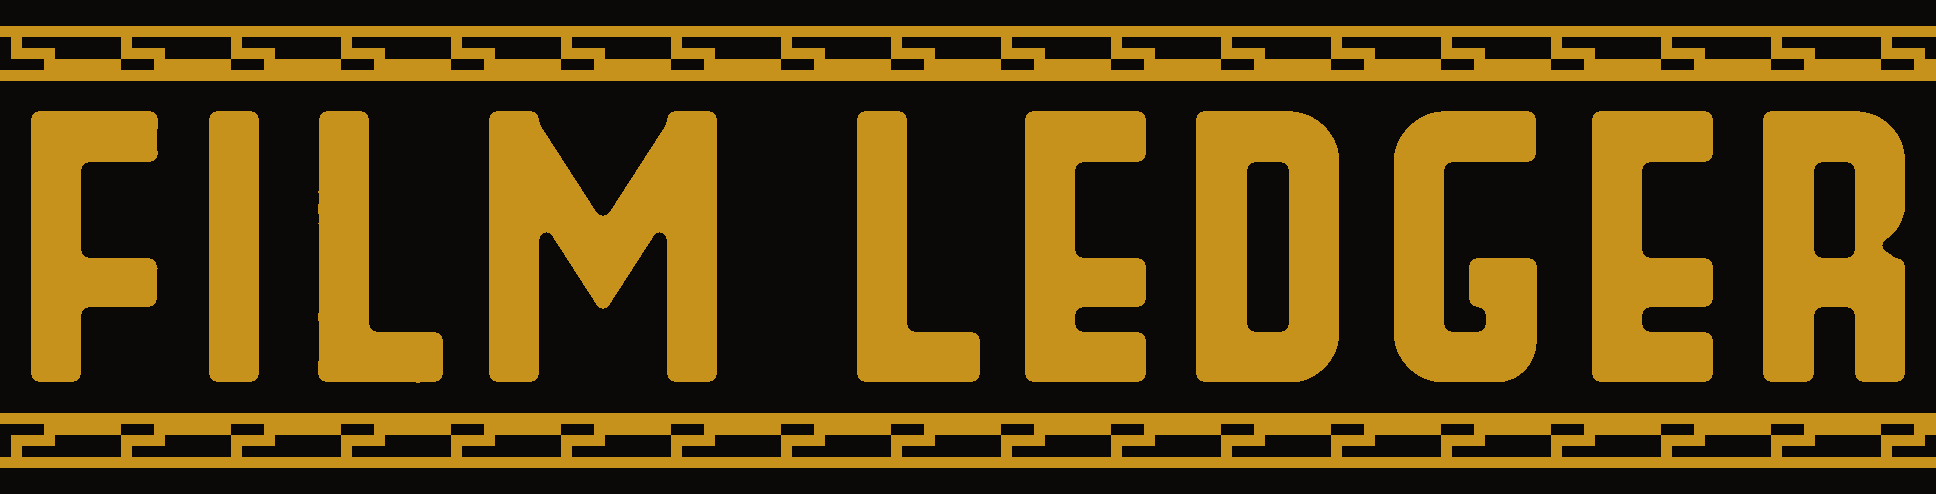
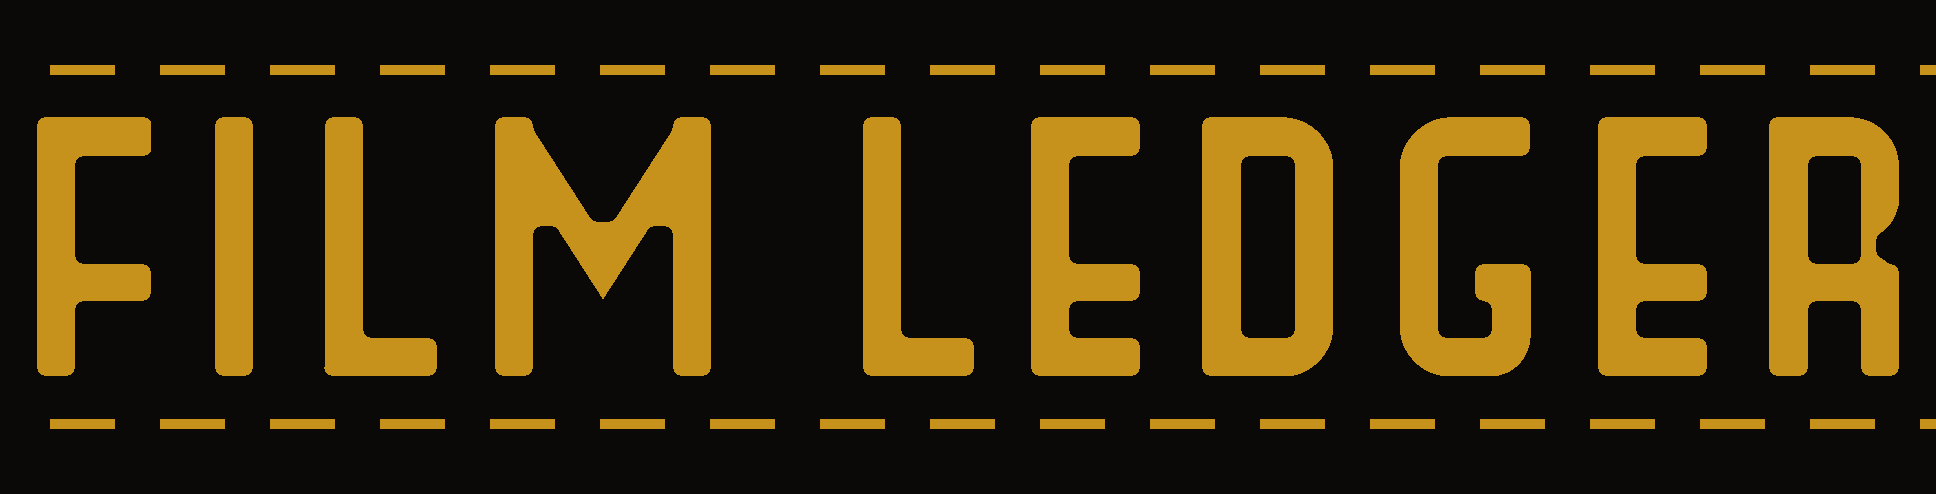
v5.16: thinner header, Stats last, in-app Rate
Header letter strokes are thinner. Stats sits at the end of the tab row.
Rate no longer uses the browser prompt (blocked on iPhone); it opens a number input.

diff --git a/app.js b/app.js
@@ -1384,9 +1384,39 @@ function showToast(message) {
 function editRating(id) {
   const m = movies.find(x => x.id === id);
   if (!m) return;
-  const input = prompt(`Rate "${m.title}" (0–100):`, m.rating || '');
-  if (input === null) return;
-  const num = parseInt(input);
+  document.querySelectorAll('.sheet').forEach(el => el.remove());
+  const modal = document.createElement('div');
+  modal.className = 'sheet';
+  modal.style.cssText = 'position:fixed; inset:0; background:rgba(0,0,0,0.85); z-index:999; display:flex; align-items:center; justify-content:center; padding:20px;';
+  modal.innerHTML = `
+    <div style="background:#1a1714; border:1px solid #2e2820; border-radius:12px; max-width:360px; width:100%; padding:18px;">
+      <div style="display:flex; justify-content:space-between; align-items:flex-start; margin-bottom:8px;">
+        <h3 style="font-size:1.05rem;">Rate ${escapeHtml(m.title)}</h3>
+        <button type="button" onclick="this.closest('.sheet').remove()" style="background:none; border:none; color:#aaa; font-size:1.4rem; cursor:pointer;">×</button>
+      </div>
+      <p style="color:#a89880; font-size:0.82rem; margin-bottom:12px;">0–100. Saving marks it watched.</p>
+      <input id="rateInput" type="number" min="0" max="100" inputmode="numeric" value="${m.rating != null ? m.rating : ''}" placeholder="0–100" style="width:100%; background:#141210; color:#f5f0e6; border:1px solid #2e2820; padding:12px; border-radius:10px; font-size:1.1rem; margin-bottom:12px;">
+      <div style="display:flex; gap:8px;">
+        <button type="button" onclick="saveRating('${m.id}')" style="flex:1; background:#d4af37; color:#1a1408; border-color:#d4af37; font-weight:700;">Save</button>
+        <button type="button" onclick="this.closest('.sheet').remove()" style="flex:1;">Cancel</button>
+      </div>
+    </div>
+  `;
+  modal.addEventListener('click', e => { if (e.target === modal) modal.remove(); });
+  document.body.appendChild(modal);
+  const input = document.getElementById('rateInput');
+  if (input) {
+    input.focus();
+    input.select();
+    input.addEventListener('keydown', e => { if (e.key === 'Enter') saveRating(id); });
+  }
+}
+
+function saveRating(id) {
+  const m = movies.find(x => x.id === id);
+  const input = document.getElementById('rateInput');
+  if (!m || !input) return;
+  const num = parseInt(input.value, 10);
   if (isNaN(num) || num < 0 || num > 100) {
     alert('Enter a number between 0 and 100');
     return;

diff --git a/index.html b/index.html
@@ -14,8 +14,8 @@
 <body>
   <div class="sticky-top">
     <div class="brand">
-      <img class="brand-mark" src="film-ledger-title.png?v=511" alt="Film Ledger">
-      <span class="brand-ver">v5.15</span>
+      <img class="brand-mark" src="film-ledger-title.png?v=516" alt="Film Ledger">
+      <span class="brand-ver">v5.16</span>
       <button type="button" id="settingsBtn" onclick="toggleSettings()" aria-label="Settings">
         <svg viewBox="0 0 24 24" width="20" height="20" aria-hidden="true">
           <circle cx="12" cy="12" r="9" fill="none" stroke="currentColor" stroke-width="1.6"/>
@@ -53,8 +53,8 @@
       <button type="button" data-tab="recs">Recommended</button>
       <button type="button" data-tab="top10">Top 10</button>
       <button type="button" data-tab="decades">Decades</button>
-      <button type="button" data-tab="stats">Stats</button>
       <button type="button" data-tab="least">Least</button>
+      <button type="button" data-tab="stats">Stats</button>
     </nav>
   </div>
 
@@ -70,6 +70,6 @@
     <div id="least" class="tabs"></div>
   </div>
 
-  <script src="app.js?v=515"></script>
+  <script src="app.js?v=516"></script>
 </body>
 </html>

diff --git a/service-worker.js b/service-worker.js
@@ -1,11 +1,11 @@
-const CACHE_NAME = 'film-ledger-v5.15';
+const CACHE_NAME = 'film-ledger-v5.16';
 const urlsToCache = [
   './',
   './index.html',
   './styles.css',
-  './app.js?v=515',
+  './app.js?v=516',
   './manifest.json',
-  './film-ledger-title.png?v=511'
+  './film-ledger-title.png?v=516'
 ];
 
 self.addEventListener('install', event => {
